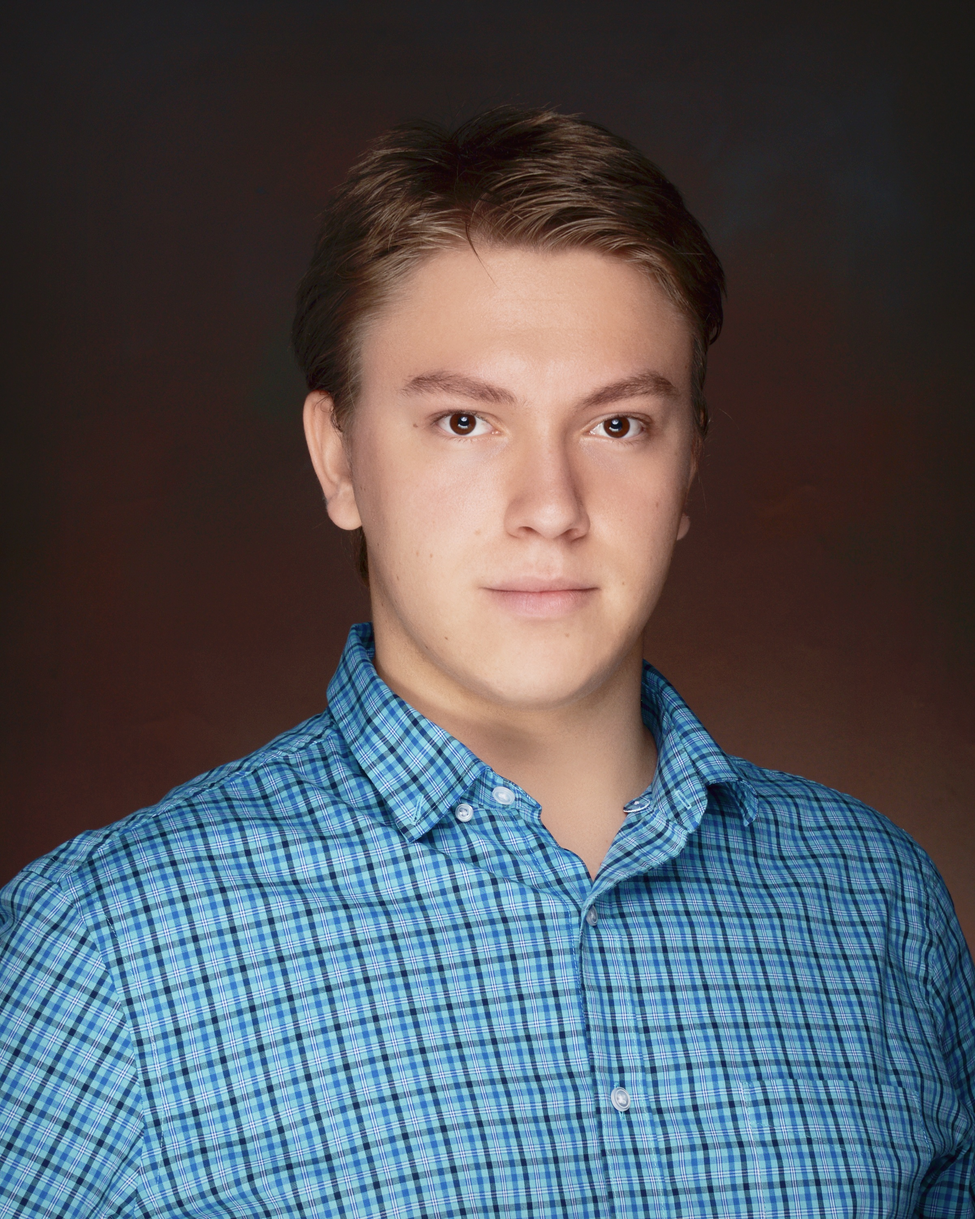
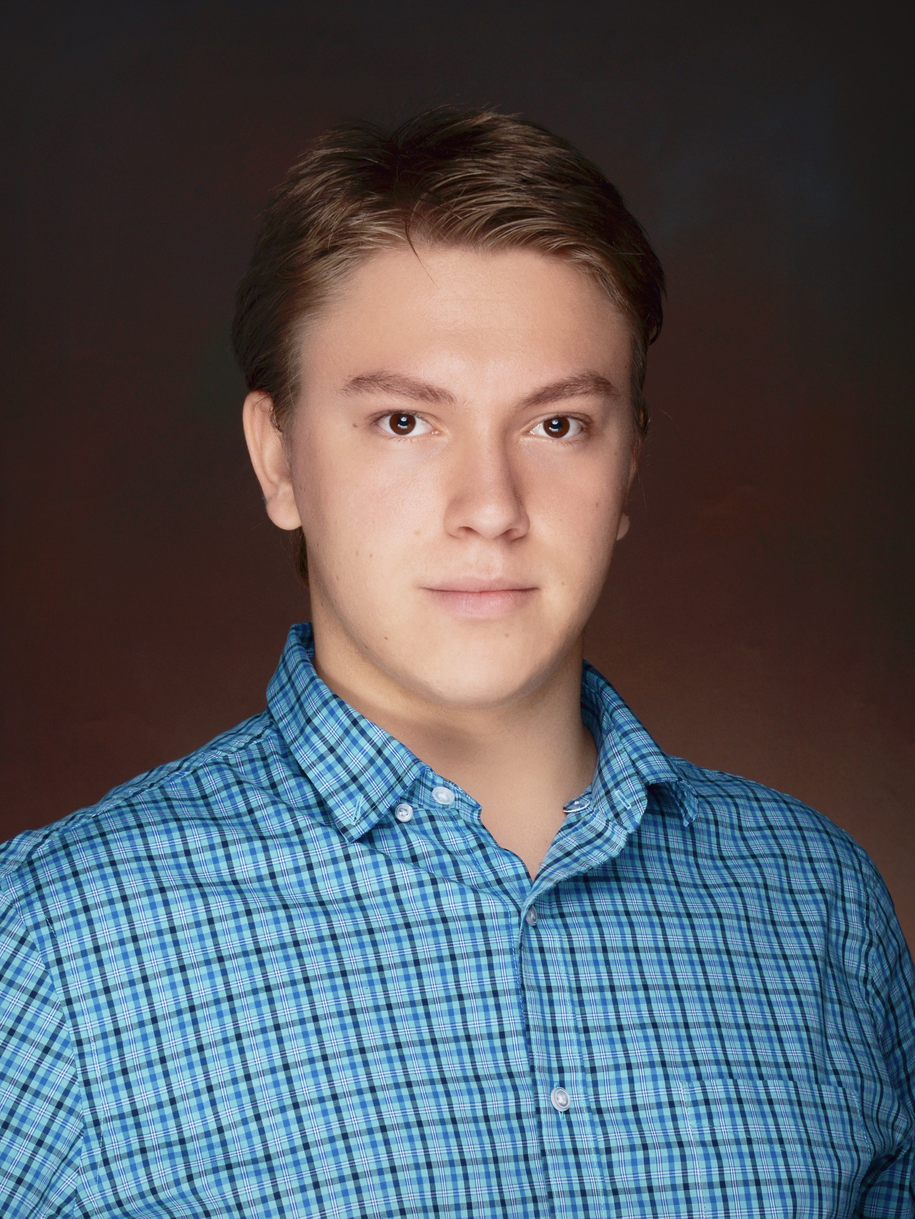
Change contact pic aspect ratio

diff --git a/projects.html b/projects.html
@@ -43,7 +43,7 @@
         <!--col 1-->
         <div class='col'>
           <div class='card'>
-            <img src='img/code.jpg' alt='Photo by luis gomes from Pexels' class='card-img-top'>
+            <img src='img/code.jpg' class='card-img-top'>
             <div class='card-body'>
               <div class='card-title'><h4>savnac</h4></div>
               <p class='card-text'>A lightweight canvas client.</p>
